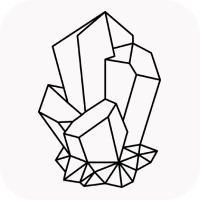
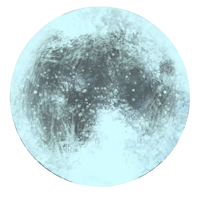
Quartz sync: Mar 10, 2025, 4:42 PM

diff --git a/docs/features/social images.md b/docs/features/social images.md
@@ -307,7 +307,7 @@ export const customImage: SocialImageOptions["imageStructure"] = (
 >         alignItems: "flex-start",
 >         height: "100%",
 >         width: "100%",
->         backgroundImage: `url("https://${cfg.baseUrl}/static/og-image.jpeg")`,
+>         backgroundImage: `url("https://i.imgur.com/MVGiq1H.png")`,
 >         backgroundSize: "100% 100%",
 >       }}
 >     >